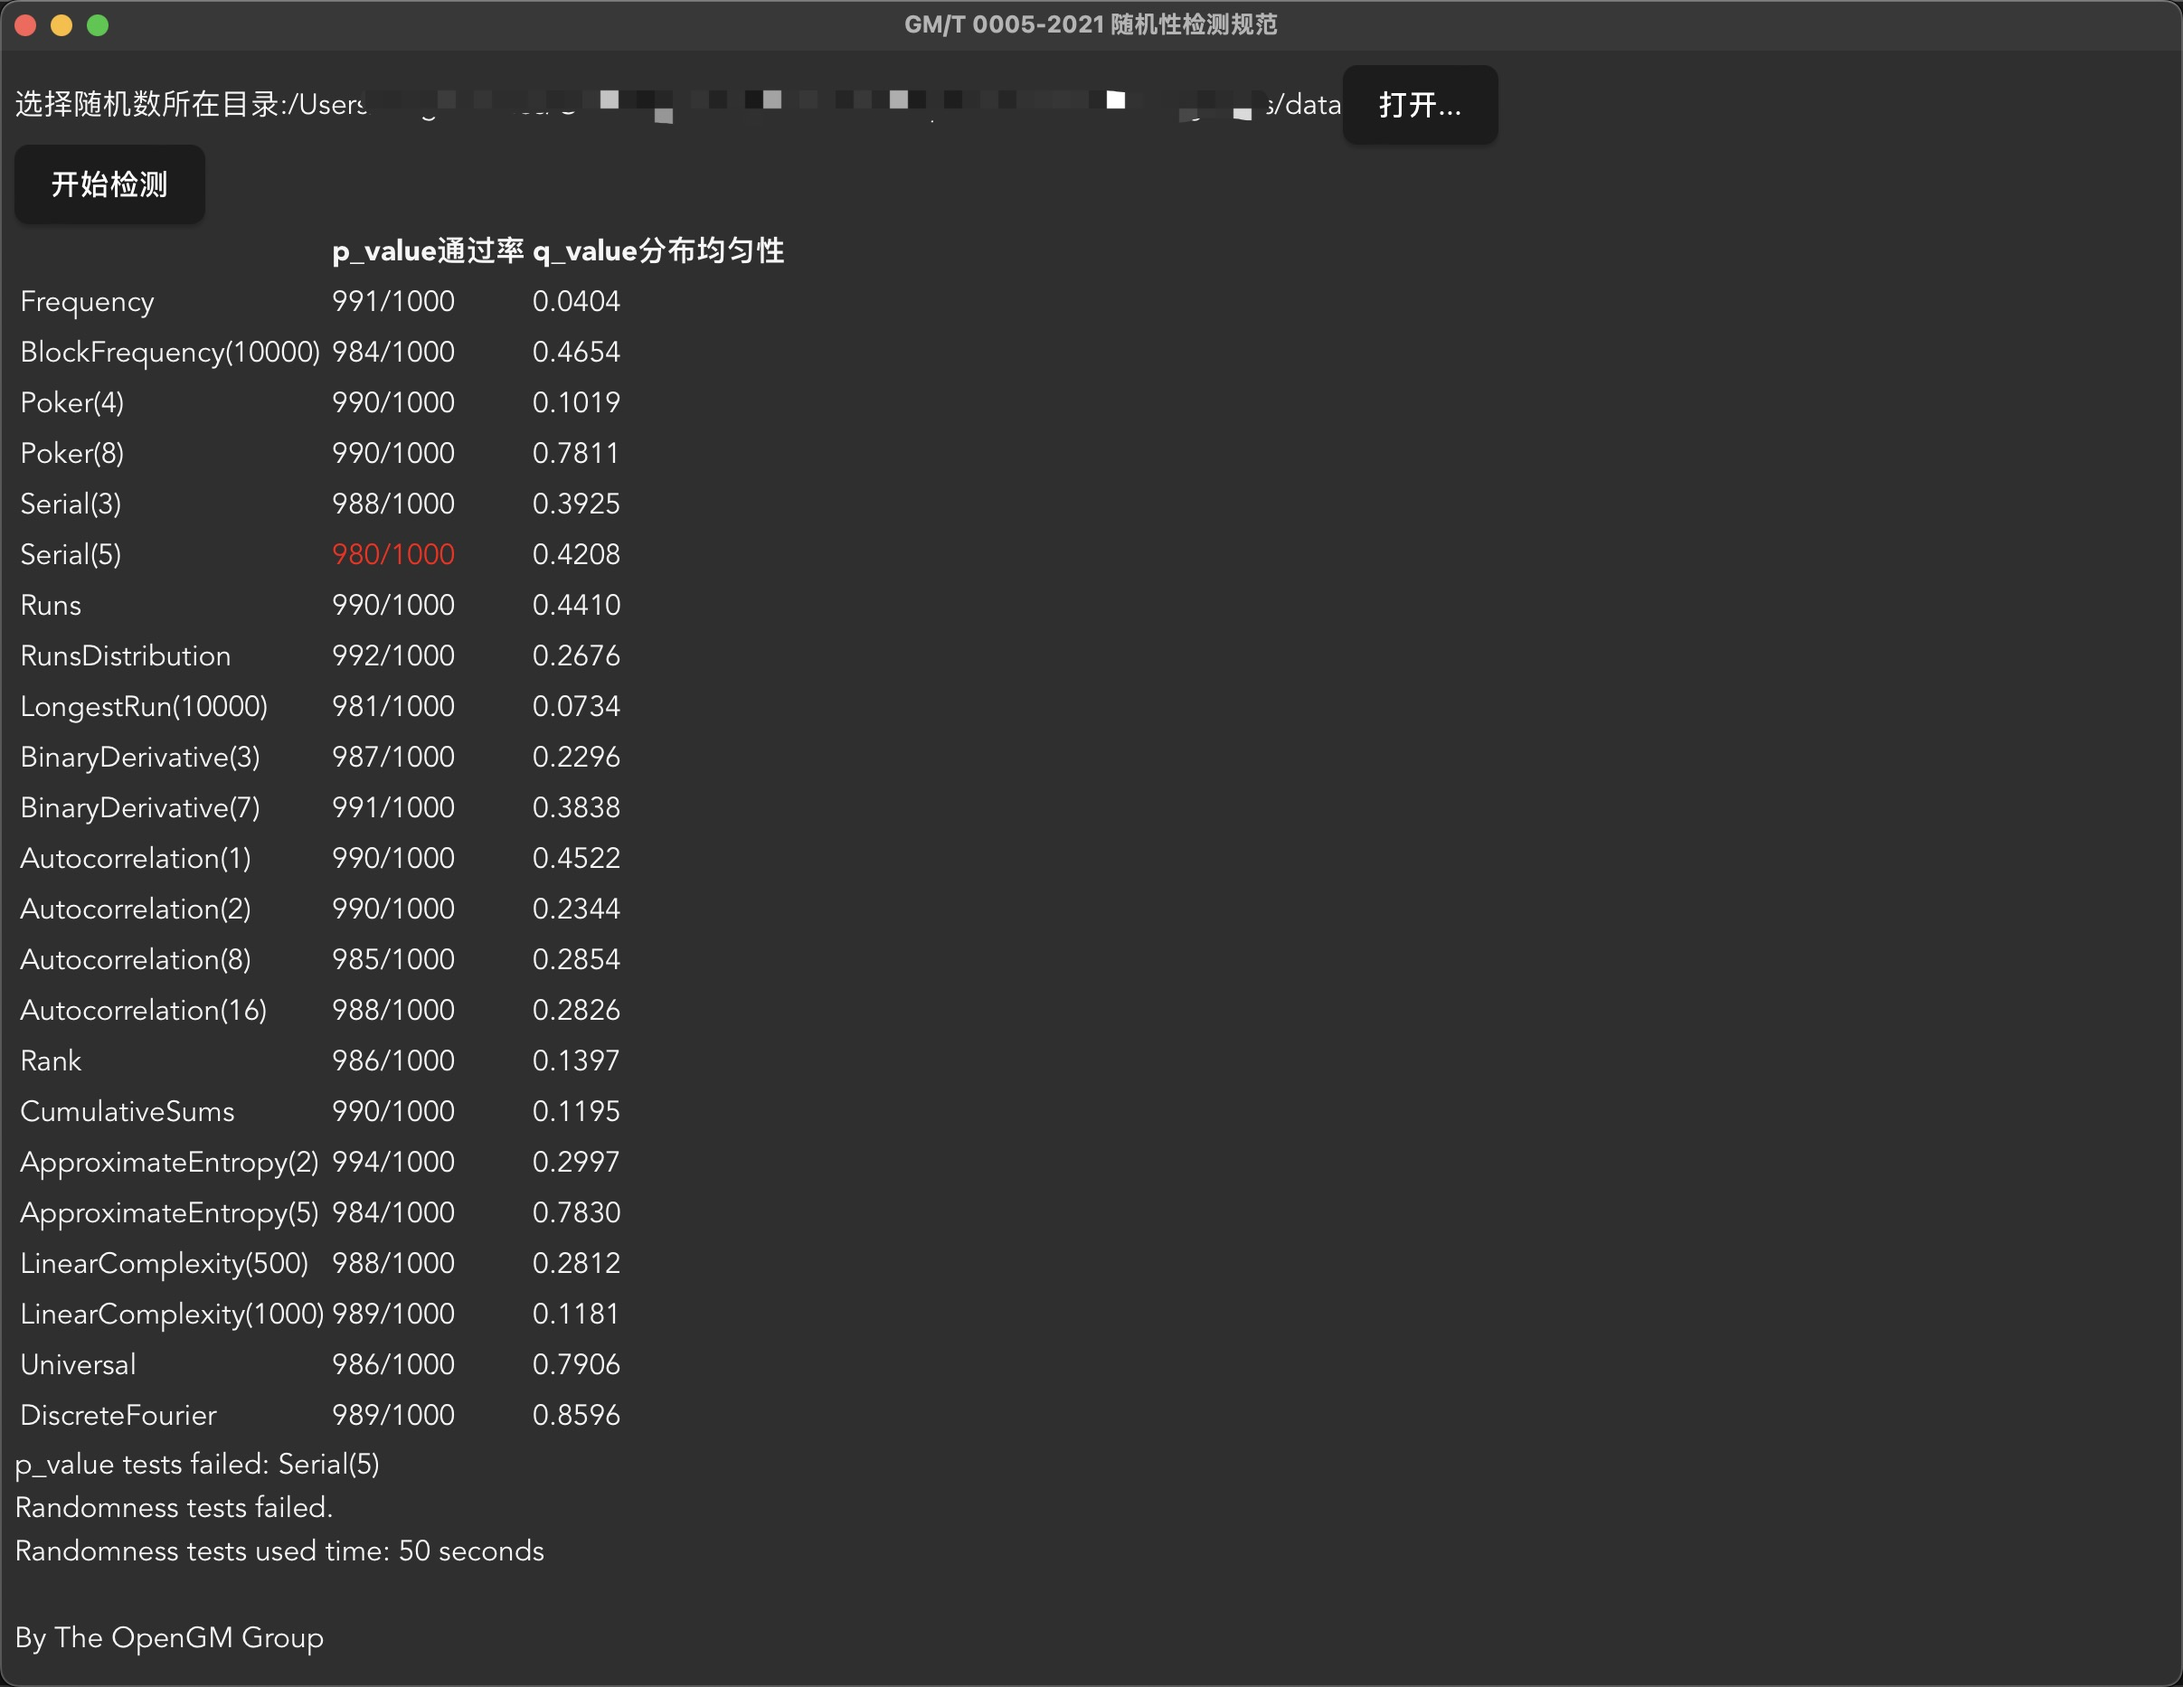
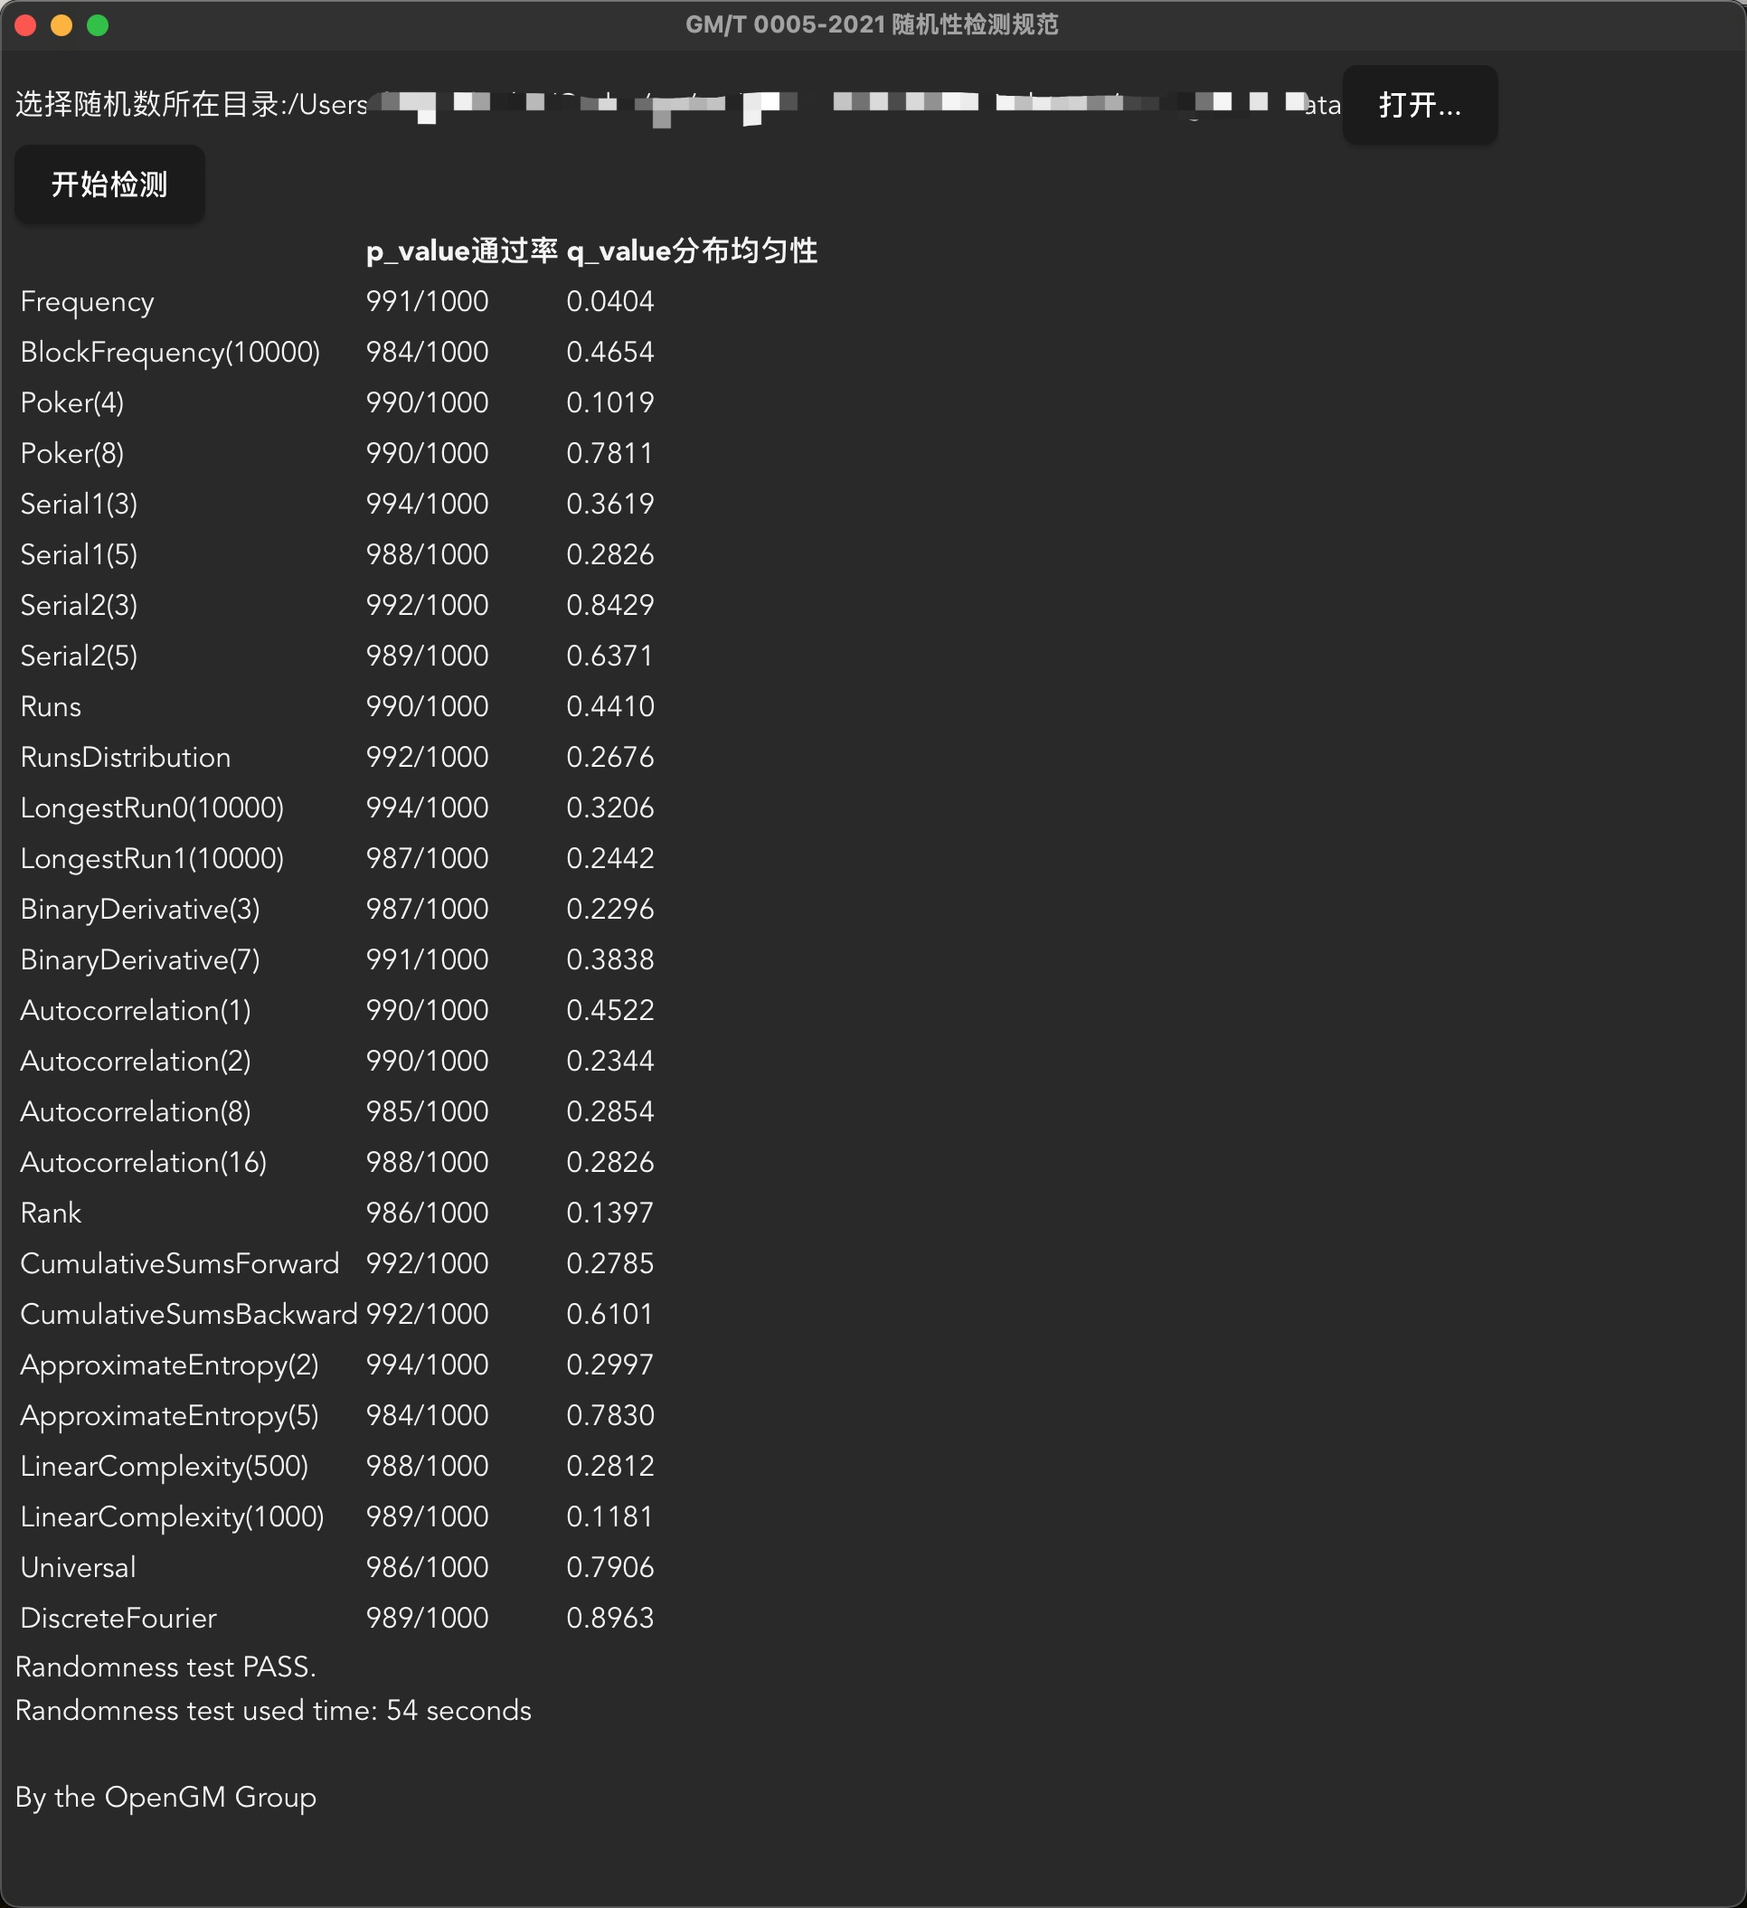
update dependency lib

diff --git a/src/index.html b/src/index.html
@@ -4,7 +4,7 @@
     <meta charset="UTF-8" />
     <link rel="stylesheet" href="styles.css" />
     <meta name="viewport" content="width=device-width, initial-scale=1.0" />
-    <title>GM/T 0005-2021 随机性检测规范</title>
+    <title>GM/T 0005-2021 随机性检测规范 Copyright (c) 2024 The OpenGM Group</title>
     <script type="module" src="/main.js" defer></script>
     <style>
       .logo.vanilla:hover {

diff --git a/src-tauri/src/main.rs b/src-tauri/src/main.rs
@@ -55,29 +55,29 @@ fn run_tests(sample_dir: &str) -> String {
     }
     s.push_str("</table>");
 
-    if pfailed_tests.len() > 0{
-        s.push_str("p_value tests failed: ");
-        for t in &pfailed_tests{
-            s.push_str(format!("{} ", t).as_str());
-        }
-        s.push_str("</br>");
-    }
-    if qfailed_tests.len() > 0{
-        s.push_str("q_value tests failed: ");
-        for t in &qfailed_tests{
-            s.push_str(format!("{} ", t).as_str());
-        }
-        s.push_str("</br>");
+    // if pfailed_tests.len() > 0{
+    //     s.push_str("p_value tests failed: ");
+    //     for t in &pfailed_tests{
+    //         s.push_str(format!("{} ", t).as_str());
+    //     }
+    //     s.push_str("</br>");
+    // }
+    // if qfailed_tests.len() > 0{
+    //     s.push_str("q_value tests failed: ");
+    //     for t in &qfailed_tests{
+    //         s.push_str(format!("{} ", t).as_str());
+    //     }
+    //     s.push_str("</br>");
 
-    }
+    // }
 
     if pfailed_tests.len() == 0 && pfailed_tests.len() == 0{
-        s.push_str("Randomness tests passed.</br>")
+        s.push_str("Randomness test PASS.</br>")
     }else{
-        s.push_str("Randomness tests failed.</br>")
+        s.push_str("Randomness test FAIL.</br>")
     }
-    s.push_str(format!("Randomness tests used time: {} seconds</br>",  (Instant::now() - start_time).as_secs()).as_str());
-    s.push_str("</br>By The OpenGM Group</br>");
+    s.push_str(format!("Randomness test used time: {} seconds</br>",  (Instant::now() - start_time).as_secs()).as_str());
+    s.push_str("</br>By the OpenGM Group</br>");
     s
 }
 

diff --git a/README.md b/README.md
@@ -1,12 +1,11 @@
 # 随机性检测
 随机性检测程序, 遵循GM/T 0005-2021 随机性检测规范.
 
-## Run & Build
-```
-cargo tauri build [--target=<target>]
-```
+## Build
+- Install rust(https://www.rust-lang.org/tools/install)
+- Install tauri cli `cargo install tauri-cli`(https://tauri.app/v1/guides/getting-started/setup/html-css-js)
+- Build `cargo tauri build [--target=<target>]`
 
 ## 性能
-1000样本,每个样本100万比特,在M1 pro max下50秒完成.
-[image](./perf.jpg)
+1000样本,每个样本100万比特,在M1 pro max下54秒完成.
 ![performace](/perf.jpg)
